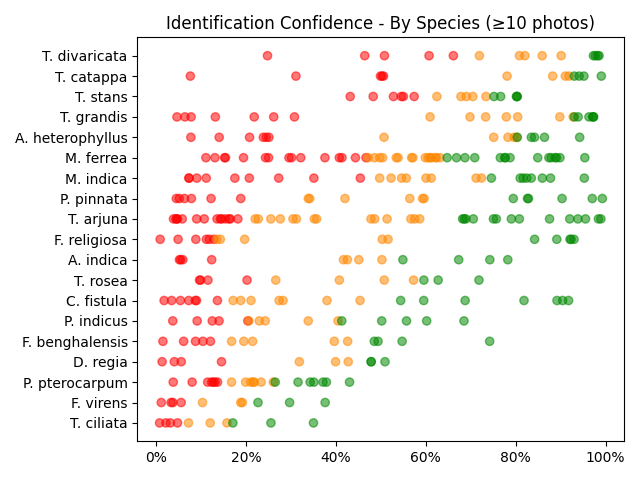
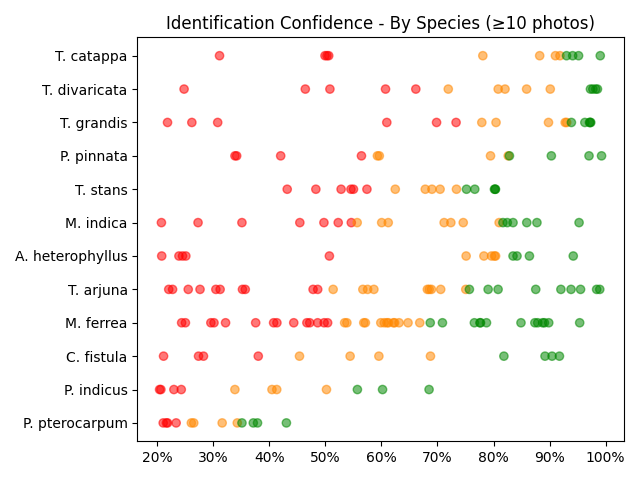
Ran pipeline

diff --git a/README.md b/README.md
@@ -1,6 +1,11 @@
 # Plants of Vihaaramahadevi Park :sri_lanka:
 
-*This analysis was automatically generated on  **Mar 21, 2024 (04:25 PM)**, and is based on  **883** plant photos.*
+*This analysis was automatically generated on  **Mar 21, 2024 (04:35 PM)**, and is based on  **493** plant photos.*
+
+![PlantNet](https://plantnet.org/wp-content/uploads/2020/12/plantnet_header.png)
+
+Plant Identifications are from  [PlantNet](https://plantnet.org), a citizen science project for automatic plant identification through photographs and based on machine learning.
+We only consider results where the models confidence is above 20%.
 
 Results can be directly inspected using [this app](https://nuuuwan.github.io/plants)
 
@@ -16,59 +21,59 @@ Viharamahadevi Park is 24.27ha, and has an estimated [green cover](https://en.wi
 
 ### Families
 
-**78** unique Families.
+**54** unique Families.
 
 | # | Families | n(Photos) | % |
 | ---: | :--- | ---: | ---: |
-| 1 | [*Fabaceae*](https://en.wikipedia.org/wiki/Fabaceae) | 178 | 20.2% |
-| 2 | [*Moraceae*](https://en.wikipedia.org/wiki/Moraceae) | 75 | 8.5% |
-| 3 | [*Combretaceae*](https://en.wikipedia.org/wiki/Combretaceae) | 60 | 6.8% |
-| 4 | [*Calophyllaceae*](https://en.wikipedia.org/wiki/Calophyllaceae) | 51 | 5.8% |
-| 5 | [*Bignoniaceae*](https://en.wikipedia.org/wiki/Bignoniaceae) | 44 | 5.0% |
-| 6 | [*Apocynaceae*](https://en.wikipedia.org/wiki/Apocynaceae) | 44 | 5.0% |
-| 7 | [*Myrtaceae*](https://en.wikipedia.org/wiki/Myrtaceae) | 44 | 5.0% |
-| 8 | [*Meliaceae*](https://en.wikipedia.org/wiki/Meliaceae) | 39 | 4.4% |
-| 9 | [*Anacardiaceae*](https://en.wikipedia.org/wiki/Anacardiaceae) | 35 | 4.0% |
-| 10 | [*Arecaceae*](https://en.wikipedia.org/wiki/Arecaceae) | 31 | 3.5% |
-|  | *(All Others)* | 136 | 15.4% |
+| 1 | [*Fabaceae*](https://en.wikipedia.org/wiki/Fabaceae) | 99 | 20.1% |
+| 2 | [*Combretaceae*](https://en.wikipedia.org/wiki/Combretaceae) | 44 | 8.9% |
+| 3 | [*Calophyllaceae*](https://en.wikipedia.org/wiki/Calophyllaceae) | 43 | 8.7% |
+| 4 | [*Moraceae*](https://en.wikipedia.org/wiki/Moraceae) | 40 | 8.1% |
+| 5 | [*Bignoniaceae*](https://en.wikipedia.org/wiki/Bignoniaceae) | 33 | 6.7% |
+| 6 | [*Apocynaceae*](https://en.wikipedia.org/wiki/Apocynaceae) | 30 | 6.1% |
+| 7 | [*Anacardiaceae*](https://en.wikipedia.org/wiki/Anacardiaceae) | 28 | 5.7% |
+| 8 | [*Meliaceae*](https://en.wikipedia.org/wiki/Meliaceae) | 19 | 3.9% |
+| 9 | [*Lamiaceae*](https://en.wikipedia.org/wiki/Lamiaceae) | 17 | 3.4% |
+| 10 | [*Myrtaceae*](https://en.wikipedia.org/wiki/Myrtaceae) | 16 | 3.2% |
+|  | *(All Others)* | 88 | 17.8% |
 
 ### Genera
 
-**194** unique Genera.
+**114** unique Genera.
 
 | # | Genera | n(Photos) | % |
 | ---: | :--- | ---: | ---: |
-| 1 | [*Ficus*](https://en.wikipedia.org/wiki/Ficus) | 58 | 6.6% |
-| 2 | [*Terminalia*](https://en.wikipedia.org/wiki/Terminalia) | 58 | 6.6% |
-| 3 | [*Mesua*](https://en.wikipedia.org/wiki/Mesua) | 45 | 5.1% |
-| 4 | [*Peltophorum*](https://en.wikipedia.org/wiki/Peltophorum) | 28 | 3.2% |
-| 5 | [*Cassia*](https://en.wikipedia.org/wiki/Cassia) | 27 | 3.1% |
-| 6 | [*Mangifera*](https://en.wikipedia.org/wiki/Mangifera) | 25 | 2.8% |
-| 7 | [*Tectona*](https://en.wikipedia.org/wiki/Tectona) | 20 | 2.3% |
-| 8 | [*Pongamia*](https://en.wikipedia.org/wiki/Pongamia) | 18 | 2.0% |
-| 9 | [*Syzygium*](https://en.wikipedia.org/wiki/Syzygium) | 17 | 1.9% |
-| 10 | [*Pterocarpus*](https://en.wikipedia.org/wiki/Pterocarpus) | 17 | 1.9% |
-|  | *(All Others)* | 368 | 41.7% |
+| 1 | [*Terminalia*](https://en.wikipedia.org/wiki/Terminalia) | 42 | 8.5% |
+| 2 | [*Mesua*](https://en.wikipedia.org/wiki/Mesua) | 40 | 8.1% |
+| 3 | [*Ficus*](https://en.wikipedia.org/wiki/Ficus) | 26 | 5.3% |
+| 4 | [*Mangifera*](https://en.wikipedia.org/wiki/Mangifera) | 20 | 4.1% |
+| 5 | [*Tecoma*](https://en.wikipedia.org/wiki/Tecoma) | 16 | 3.2% |
+| 6 | [*Cassia*](https://en.wikipedia.org/wiki/Cassia) | 16 | 3.2% |
+| 7 | [*Tectona*](https://en.wikipedia.org/wiki/Tectona) | 16 | 3.2% |
+| 8 | [*Tabernaemontana*](https://en.wikipedia.org/wiki/Tabernaemontana) | 14 | 2.8% |
+| 9 | [*Artocarpus*](https://en.wikipedia.org/wiki/Artocarpus) | 14 | 2.8% |
+| 10 | [*Peltophorum*](https://en.wikipedia.org/wiki/Peltophorum) | 14 | 2.8% |
+|  | *(All Others)* | 208 | 42.2% |
 
 ### Species
 
-**267** unique Species.
+**150** unique Species.
 
 | # | Species | n(Photos) | % |
 | ---: | :--- | ---: | ---: |
-| 1 | [*Mesua ferrea*](https://en.wikipedia.org/wiki/Mesua_ferrea) | 45 | 5.1% |
-| 2 | [*Terminalia arjuna*](https://en.wikipedia.org/wiki/Terminalia_arjuna) | 42 | 4.8% |
-| 3 | [*Mangifera indica*](https://en.wikipedia.org/wiki/Mangifera_indica) | 25 | 2.8% |
-| 4 | [*Cassia fistula*](https://en.wikipedia.org/wiki/Cassia_fistula) | 21 | 2.4% |
-| 5 | [*Peltophorum pterocarpum*](https://en.wikipedia.org/wiki/Peltophorum_pterocarpum) | 21 | 2.4% |
-| 6 | [*Tectona grandis*](https://en.wikipedia.org/wiki/Tectona_grandis) | 20 | 2.3% |
-| 7 | [*Pongamia pinnata*](https://en.wikipedia.org/wiki/Pongamia_pinnata) | 18 | 2.0% |
-| 8 | [*Tecoma stans*](https://en.wikipedia.org/wiki/Tecoma_stans) | 16 | 1.8% |
-| 9 | [*Artocarpus heterophyllus*](https://en.wikipedia.org/wiki/Artocarpus_heterophyllus) | 16 | 1.8% |
-| 10 | [*Ficus religiosa*](https://en.wikipedia.org/wiki/Ficus_religiosa) | 16 | 1.8% |
-|  | *(All Others)* | 514 | 58.2% |
+| 1 | [*Mesua ferrea*](https://en.wikipedia.org/wiki/Mesua_ferrea) | 40 | 8.1% |
+| 2 | [*Terminalia arjuna*](https://en.wikipedia.org/wiki/Terminalia_arjuna) | 28 | 5.7% |
+| 3 | [*Mangifera indica*](https://en.wikipedia.org/wiki/Mangifera_indica) | 20 | 4.1% |
+| 4 | [*Tecoma stans*](https://en.wikipedia.org/wiki/Tecoma_stans) | 16 | 3.2% |
+| 5 | [*Tectona grandis*](https://en.wikipedia.org/wiki/Tectona_grandis) | 16 | 3.2% |
+| 6 | [*Tabernaemontana divaricata*](https://en.wikipedia.org/wiki/Tabernaemontana_divaricata) | 14 | 2.8% |
+| 7 | [*Artocarpus heterophyllus*](https://en.wikipedia.org/wiki/Artocarpus_heterophyllus) | 14 | 2.8% |
+| 8 | [*Terminalia catappa*](https://en.wikipedia.org/wiki/Terminalia_catappa) | 12 | 2.4% |
+| 9 | [*Cassia fistula*](https://en.wikipedia.org/wiki/Cassia_fistula) | 12 | 2.4% |
+| 10 | [*Pongamia pinnata*](https://en.wikipedia.org/wiki/Pongamia_pinnata) | 12 | 2.4% |
+|  | *(All Others)* | 280 | 56.8% |
 
-<img src="data/images/Photo-2024-03-11-07-03-27.jpg" alt="Mesua ferrea" width="45%" style=margin:1%; /><img src="data/images/Photo-2024-03-21-07-08-12.jpg" alt="Terminalia arjuna" width="45%" style=margin:1%; /><img src="data/images/Photo-2024-03-21-08-12-16.jpg" alt="Mangifera indica" width="45%" style=margin:1%; /><img src="data/images/Photo-2024-03-08-07-09-59.jpg" alt="Cassia fistula" width="45%" style=margin:1%; /><img src="data/images/Photo-2024-03-17-08-17-54.jpg" alt="Peltophorum pterocarpum" width="45%" style=margin:1%; /><img src="data/images/Photo-2024-03-19-07-18-25.jpg" alt="Tectona grandis" width="45%" style=margin:1%; /><img src="data/images/Photo-2024-03-21-08-10-07.jpg" alt="Pongamia pinnata" width="45%" style=margin:1%; /><img src="data/images/Photo-2024-03-11-06-40-57.jpg" alt="Tecoma stans" width="45%" style=margin:1%; /><img src="data/images/Photo-2024-03-08-07-07-47.jpg" alt="Artocarpus heterophyllus" width="45%" style=margin:1%; /><img src="data/images/Photo-2024-03-14-07-45-41.jpg" alt="Ficus religiosa" width="45%" style=margin:1%; />
+<img src="data/images/Photo-2024-03-11-07-03-27.jpg" alt="Mesua ferrea" width="45%" style=margin:1%; /><img src="data/images/Photo-2024-03-21-07-08-12.jpg" alt="Terminalia arjuna" width="45%" style=margin:1%; /><img src="data/images/Photo-2024-03-21-08-12-16.jpg" alt="Mangifera indica" width="45%" style=margin:1%; /><img src="data/images/Photo-2024-03-11-06-40-57.jpg" alt="Tecoma stans" width="45%" style=margin:1%; /><img src="data/images/Photo-2024-03-19-07-18-25.jpg" alt="Tectona grandis" width="45%" style=margin:1%; /><img src="data/images/Photo-2024-03-11-06-27-36.jpg" alt="Tabernaemontana divaricata" width="45%" style=margin:1%; /><img src="data/images/Photo-2024-03-08-07-07-47.jpg" alt="Artocarpus heterophyllus" width="45%" style=margin:1%; /><img src="data/images/Photo-2024-03-11-06-36-36.jpg" alt="Terminalia catappa" width="45%" style=margin:1%; /><img src="data/images/Photo-2024-03-08-07-09-59.jpg" alt="Cassia fistula" width="45%" style=margin:1%; /><img src="data/images/Photo-2024-03-21-08-10-07.jpg" alt="Pongamia pinnata" width="45%" style=margin:1%; />
 
 ## Identification Confidence
 
@@ -78,10 +83,5 @@ Viharamahadevi Park is 24.27ha, and has an estimated [green cover](https://en.wi
 
 | Species 1 | Species 2 | n(Photos) |
 | :--- | :--- | ---: |
-| *Jacaranda mimosifolia* | *Peltophorum pterocarpum* | 7 |
-| *Peltophorum dubium* | *Peltophorum pterocarpum* | 5 |
-| *Ficus benghalensis* | *Ficus elastica* | 3 |
-| *Jacaranda mimosifolia* | *Peltophorum dubium* | 3 |
-| *Pterocarpus indicus* | *Tipuana tipu* | 3 |
-| *Cassia fistula* | *Pterocarpus indicus* | 3 |
-| *Ficus religiosa* | *Ficus virens* | 3 |
+| *Peltophorum dubium* | *Peltophorum pterocarpum* | 3 |
+| *Jacaranda mimosifolia* | *Peltophorum pterocarpum* | 3 |
